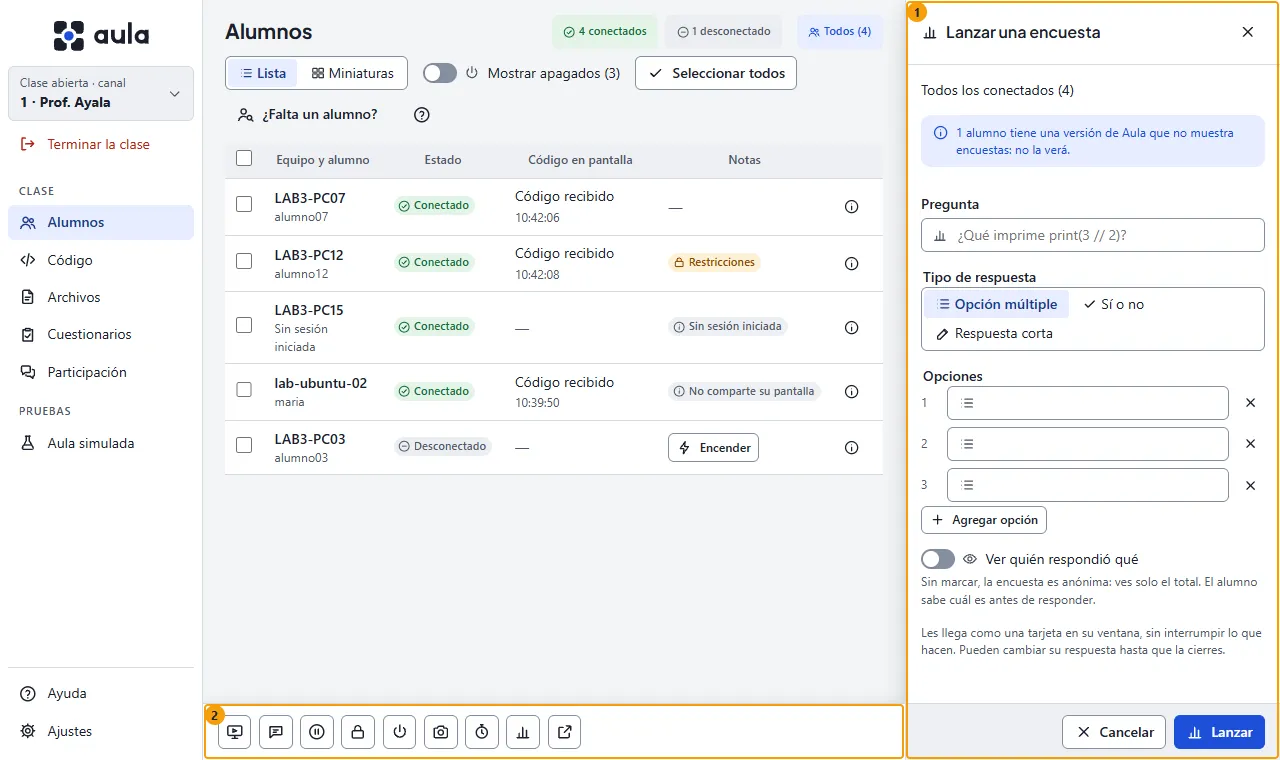
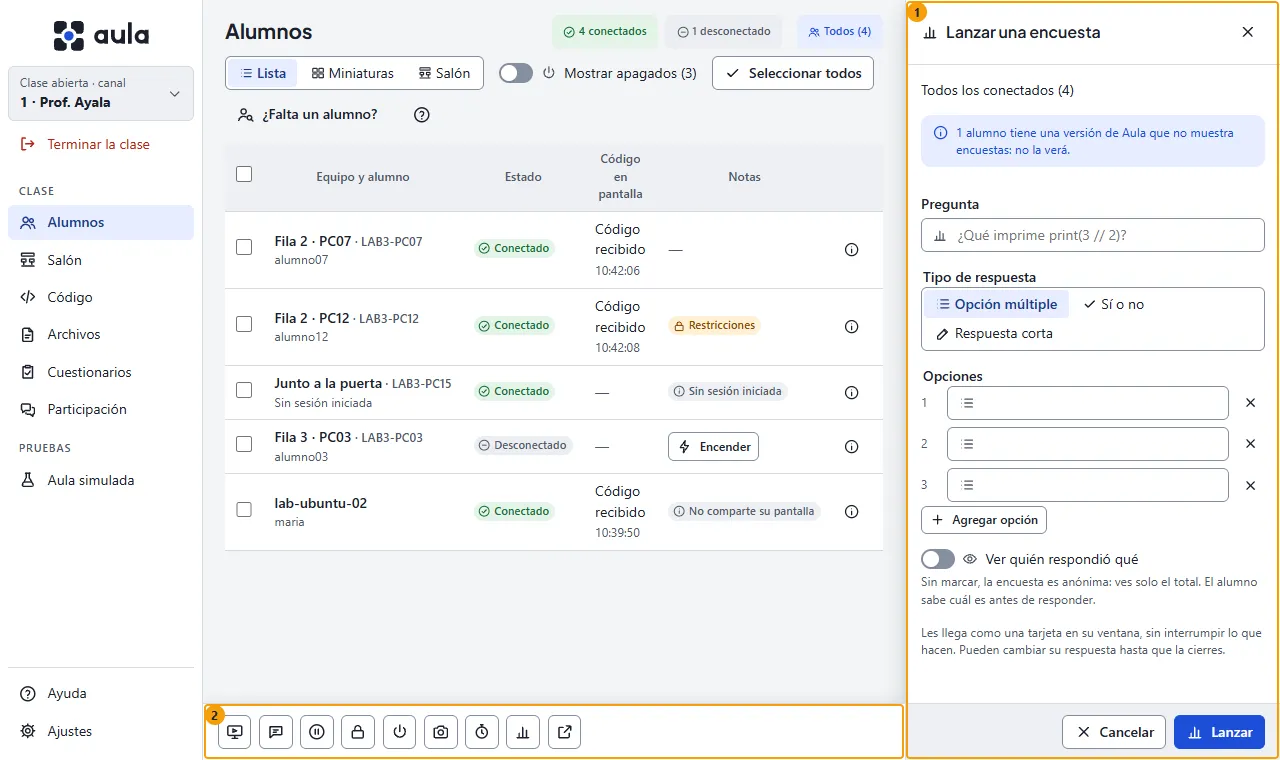
documentacion(ux): zonas del Salón, mapa e historial
Las zonas nuevas (Vista Salón, Alumnos en el salón, Ajustes › Salón, diálogo de la etiqueta),
el mapa regenerado y la página de historial con las ubicaciones y decisiones de 10.15.

diff --git a/docs/ux/MAPA.md b/docs/ux/MAPA.md
@@ -19,7 +19,7 @@ archivo y sus imágenes los genera `node scripts/ux/mapa.mjs` (no se editan a ma
 | 3 | **Terminar la clase** | Bajo el Selector de clase: detiene lo activo y deja limpia la ventana de cada alumno (prompt 10.14). |
 | 4 | **Cabecera de la vista** | Título de la vista, su resumen y el «?» de ayuda contextual. |
 | 5 | **Selección** | A quién van las acciones de la barra: «Todos (n)» o «n seleccionados», con su explicación en el tooltip. |
-| 6 | **Selector Lista | Miniaturas** | Cambia entre la tabla y las miniaturas de pantalla. |
+| 6 | **Selector Lista | Miniaturas | Salón** | Cambia entre la tabla, las miniaturas de pantalla y los alumnos en su lugar del salón. |
 | 7 | **Mostrar apagados** | Muestra en la lista los equipos que la consola conoce y no están conectados, con Encender y Olvidar; solo en Lista y se recuerda (prompt 10.19). |
 | 8 | **Lista de alumnos** | Tabla con un alumno por fila. |
 | 9 | **Fila del alumno** | Un alumno: casilla, equipo, estado, insignias y el botón de su ficha; en un equipo sin conexión, Encender. |
@@ -31,7 +31,7 @@ archivo y sus imágenes los genera `node scripts/ux/mapa.mjs` (no se editan a ma
 
 | # | Zona | Qué es |
 |---|---|---|
-| 1 | **Tamaño de las miniaturas** | Pequeño, Mediano, Grande, Extra grande o Ajustar a la pantalla; solo en Miniaturas y se recuerda. |
+| 1 | **Tamaño de las miniaturas** | Pequeño, Mediano, Grande, Extra grande o Ajustar a la pantalla; en Miniaturas y en Salón, y se recuerda. |
 | 2 | **Miniaturas** | Cuadrícula con la pantalla de cada alumno. |
 | 3 | **Tarjeta del alumno** | La miniatura de un alumno como un monitor, con su nombre; un clic en la pantalla abre la Pantalla grande. |
 | 4 | **Barra de acciones** | Abajo: lo que se aplica a la selección (aviso, transmitir, pausar, restricciones, captura, temporizador, encuesta, energía…). |
@@ -52,7 +52,7 @@ archivo y sus imágenes los genera `node scripts/ux/mapa.mjs` (no se editan a ma
 | # | Zona | Qué es |
 |---|---|---|
 | 1 | **Pantalla grande** | La pantalla de un alumno en grande; también la vista del control remoto y la de la proyección de un alumno. |
-| 2 | **Acciones sobre el alumno** | Tomar control, Mensaje privado, Tomar captura, Proyectar a la clase, Pausar pantalla y Abrir página o app (ACCIONES_ALUMNO en main.js). |
+| 2 | **Acciones sobre el alumno** | Tomar control, Mensaje privado, Tomar captura, Proyectar a la clase, Pausar pantalla, Abrir página o app y Etiqueta del equipo (ACCIONES_ALUMNO en main.js). |
 
 ### Consola · Franja global y un panel de la barra
 
@@ -98,7 +98,7 @@ archivo y sus imágenes los genera `node scripts/ux/mapa.mjs` (no se editan a ma
 
 | # | Zona | Qué es |
 |---|---|---|
-| 1 | **Ajustes** | Diálogo con Clase, Apariencia, Apps permitidas y Acerca de. |
+| 1 | **Ajustes** | Diálogo con Clase, Apariencia, Apps permitidas, Salón y Acerca de. |
 | 2 | **Apps permitidas** | Las apps que se pueden abrir en los equipos: nombre y ruta del .exe, con ejemplos. |
 
 ### Consola · Código
@@ -164,6 +164,28 @@ archivo y sus imágenes los genera `node scripts/ux/mapa.mjs` (no se editan a ma
 |---|---|---|
 | 1 | **Franja global** | Lo que sigue activo durante la clase (transmitir, proyectar a un alumno, control, pantallas en pausa, energía, temporizador, encuesta o cuestionario abierto, aula simulada), con su botón para detenerlo. |
 | 2 | **Sección Encuestas** | La encuesta o el cuestionario abierto en vivo (barras, o aciertos por pregunta y puntaje por alumno) con Cerrar, y los anteriores con Compartir resultados y Exportar calificaciones. |
+
+### Consola · Alumnos (salón)
+
+![Consola · Alumnos (salón)](mapa/consola-alumnos-salon.webp)
+
+| # | Zona | Qué es |
+|---|---|---|
+| 1 | **Selector Lista | Miniaturas | Salón** | Cambia entre la tabla, las miniaturas de pantalla y los alumnos en su lugar del salón. |
+| 2 | **Alumnos en el salón** | Las tarjetas de los alumnos en su lugar del salón; el lugar de un equipo sin conexión se ve vacío, con Encender. Los números de fila y columna seleccionan a los de esa fila o columna (prompt 10.15). |
+| 3 | **Barra de acciones** | Abajo: lo que se aplica a la selección (aviso, transmitir, pausar, restricciones, captura, temporizador, encuesta, energía…). |
+
+### Consola · Salón
+
+![Consola · Salón](mapa/consola-salon.webp)
+
+| # | Zona | Qué es |
+|---|---|---|
+| 1 | **Menú** | Columna izquierda: la clase abierta, las vistas y Ayuda y Ajustes. |
+| 2 | **Filas, columnas y lugar** | El tamaño del salón (hasta 12 × 12) y qué pone un clic: mover equipos, Profesor, Pasillo o Vacío. |
+| 3 | **Plano del salón** | Un botón por lugar, con el frente del salón arriba: se arrastra cada equipo a su lugar, o con el teclado (flechas, Enter y Esc). |
+| 4 | **Sin acomodar** | Los equipos sin lugar: los nuevos y los que la consola recuerda; soltar uno aquí lo saca del plano. |
+| 5 | **Equipo elegido** | El equipo elegido: su nombre, lugar y estado, su etiqueta con Guardar etiqueta, Quitar de su lugar y Quitar del salón. |
 
 ### Consola · Cuestionarios
 
@@ -291,20 +313,22 @@ También las que no salen en una imagen (diálogos y paneles). El `id` es el que
 | `franja` | Franja global | Lo que sigue activo durante la clase (transmitir, proyectar a un alumno, control, pantallas en pausa, energía, temporizador, encuesta o cuestionario abierto, aula simulada), con su botón para detenerlo. |
 | `cabecera` | Cabecera de la vista | Título de la vista, su resumen y el «?» de ayuda contextual. |
 | `avisos` | Avisos (toasts) | Mensajes breves abajo a la derecha tras una acción. |
-| `alumnos` | Vista Alumnos | Los alumnos del canal, en lista o miniaturas. |
-| `alumnos-modo` | Vista Alumnos › Selector Lista | Miniaturas | Cambia entre la tabla y las miniaturas de pantalla. |
+| `alumnos` | Vista Alumnos | Los alumnos del canal, en lista, miniaturas o como en el salón. |
+| `alumnos-modo` | Vista Alumnos › Selector Lista | Miniaturas | Salón | Cambia entre la tabla, las miniaturas de pantalla y los alumnos en su lugar del salón. |
 | `alumnos-lista` | Vista Alumnos › Lista de alumnos | Tabla con un alumno por fila. |
 | `fila-alumno` | Vista Alumnos › Lista de alumnos › Fila del alumno | Un alumno: casilla, equipo, estado, insignias y el botón de su ficha; en un equipo sin conexión, Encender. |
 | `alumnos-seleccion` | Vista Alumnos › Selección | A quién van las acciones de la barra: «Todos (n)» o «n seleccionados», con su explicación en el tooltip. |
 | `alumnos-apagados` | Vista Alumnos › Mostrar apagados | Muestra en la lista los equipos que la consola conoce y no están conectados, con Encender y Olvidar; solo en Lista y se recuerda (prompt 10.19). |
-| `alumnos-tamano` | Vista Alumnos › Tamaño de las miniaturas | Pequeño, Mediano, Grande, Extra grande o Ajustar a la pantalla; solo en Miniaturas y se recuerda. |
+| `alumnos-tamano` | Vista Alumnos › Tamaño de las miniaturas | Pequeño, Mediano, Grande, Extra grande o Ajustar a la pantalla; en Miniaturas y en Salón, y se recuerda. |
 | `alumnos-miniaturas` | Vista Alumnos › Miniaturas | Cuadrícula con la pantalla de cada alumno. |
 | `tarjeta-alumno` | Vista Alumnos › Miniaturas › Tarjeta del alumno | La miniatura de un alumno como un monitor, con su nombre; un clic en la pantalla abre la Pantalla grande. |
+| `alumnos-salon` | Vista Alumnos › Alumnos en el salón | Las tarjetas de los alumnos en su lugar del salón; el lugar de un equipo sin conexión se ve vacío, con Encender. Los números de fila y columna seleccionan a los de esa fila o columna (prompt 10.15). |
 | `barra-acciones` | Vista Alumnos › Barra de acciones | Abajo: lo que se aplica a la selección (aviso, transmitir, pausar, restricciones, captura, temporizador, encuesta, energía…). |
 | `ficha` | Ficha del alumno | Panel derecho con los datos de un alumno y qué puede hacer su equipo; su fila queda marcada. Las acciones están en la Pantalla grande. |
 | `ficha-puede` | Ficha del alumno › Qué puede hacer su equipo | Lista de capacidades del equipo del alumno. |
 | `pantalla-grande` | Pantalla grande | La pantalla de un alumno en grande; también la vista del control remoto y la de la proyección de un alumno. |
-| `pg-acciones` | Pantalla grande › Acciones sobre el alumno | Tomar control, Mensaje privado, Tomar captura, Proyectar a la clase, Pausar pantalla y Abrir página o app (ACCIONES_ALUMNO en main.js). |
+| `pg-acciones` | Pantalla grande › Acciones sobre el alumno | Tomar control, Mensaje privado, Tomar captura, Proyectar a la clase, Pausar pantalla, Abrir página o app y Etiqueta del equipo (ACCIONES_ALUMNO en main.js). |
+| `dlg-etiqueta` | Diálogo Etiqueta del equipo | Cambiar o quitar la etiqueta de un equipo; se abre desde la Pantalla grande (prompt 10.15). |
 | `dlg-privado` | Diálogo Mensaje privado | Escribir un mensaje solo para un alumno, con su tipo; se abre desde la Pantalla grande. |
 | `dlg-abrir` | Diálogo Abrir en un alumno | Abrir una página o una app permitida en el equipo de un alumno; se abre desde la Pantalla grande. |
 | `dlg-plantilla` | Diálogo Nueva plantilla | Crear una plantilla con su nombre y sus archivos; se abre desde Plantillas (nota de interfaz 17). |
@@ -336,6 +360,11 @@ También las que no salen en una imagen (diálogos y paneles). El `id` es el que
 | `reco-nueva` | Vista Archivos › Recolecciones › Nueva recolección | Actividad, tipos de archivo y «Crear carpeta en los equipos». |
 | `recoleccion` | Vista Archivos › Recolecciones › Tarjeta de recolección | Una actividad: Recoger, Recoger a los que faltan, Abrir carpeta y la tabla por alumno. |
 | `reco-fila` | Vista Archivos › Recolecciones › Tarjeta de recolección › Fila de la recolección | Un alumno: estado, qué llegó, cuándo, Abrir, Guardar como… y Recoger otra vez. |
+| `salon` | Vista Salón | El plano del salón del canal: etiqueta y lugar de cada equipo, Exportar, Importar y Abrir carpeta. |
+| `salon-herramientas` | Vista Salón › Filas, columnas y lugar | El tamaño del salón (hasta 12 × 12) y qué pone un clic: mover equipos, Profesor, Pasillo o Vacío. |
+| `salon-plano` | Vista Salón › Plano del salón | Un botón por lugar, con el frente del salón arriba: se arrastra cada equipo a su lugar, o con el teclado (flechas, Enter y Esc). |
+| `salon-sin` | Vista Salón › Sin acomodar | Los equipos sin lugar: los nuevos y los que la consola recuerda; soltar uno aquí lo saca del plano. |
+| `salon-elegido` | Vista Salón › Equipo elegido | El equipo elegido: su nombre, lugar y estado, su etiqueta con Guardar etiqueta, Quitar de su lugar y Quitar del salón. |
 | `cuestionarios` | Vista Cuestionarios | Los cuestionarios guardados, su editor y Lanzar; los resultados van en Participación › Encuestas. |
 | `cuest-guardados` | Vista Cuestionarios › Cuestionarios guardados | Los de Documentos\Aula\cuestionarios con «Lanzar a» (todos o la selección), Lanzar, Editar, Eliminar, Nuevo cuestionario y Abrir carpeta. |
 | `cuest-editor` | Vista Cuestionarios › Editor de cuestionario | Título, tiempo, al azar y cada pregunta con su tipo, puntos y opciones con el interruptor Correcta; Guardar y Guardar y lanzar. |
@@ -348,8 +377,9 @@ También las que no salen en una imagen (diálogos y paneles). El `id` es el que
 | `ayuda` | Vista Ayuda (manual) | El manual, con búsqueda e índice. |
 | `panel-ayuda` | Panel de ayuda contextual | La página del manual de la vista actual, al costado. |
 | `falta` | Vista ¿Falta un alumno? | Comprobar la conexión y el asistente paso a paso. |
-| `ajustes` | Ajustes | Diálogo con Clase, Apariencia, Apps permitidas y Acerca de. |
+| `ajustes` | Ajustes | Diálogo con Clase, Apariencia, Apps permitidas, Salón y Acerca de. |
 | `ajustes-apps` | Ajustes › Apps permitidas | Las apps que se pueden abrir en los equipos: nombre y ruta del .exe, con ejemplos. |
+| `ajustes-salon` | Ajustes › Salón | El resumen del salón del canal, dónde se guarda, Abrir el salón, Exportar e Importar (prompt 10.15). |
 | `confirmar` | Diálogo de confirmación | «¿Seguro?» antes de una acción con consecuencias. |
 | `arranque` | Pantalla de arranque | Abrir la clase: canal y nombre. |
 

diff --git a/docs/ux/historial/salon.md b/docs/ux/historial/salon.md
@@ -1,0 +1,74 @@
+# Etiquetas de los equipos y salón (10.15): ubicación y decisiones
+
+Estado: **implementado, sin commit** (13/11/2026). Prompt
+`docs/prompts/10.15-nombres-y-mapa-del-aula.md`, trabajado con `/funcionalidad-nueva 10.15`. No se
+versionan capturas: las del arnés son `scripts/ux/salida/203-213` (consola) y
+`scripts/ux/salida-alumno/90-91` (alumno), y el CI las sube. El mapa suma «Consola · Salón» y
+«Consola · Alumnos (salón)» (`docs/ux/mapa/`), y el manual la página `salon.md` con su captura.
+
+## Análisis
+
+Con 30 a 40 equipos, «LAB3-PC07» no dice dónde está la máquina. El prompt pedía dos cosas: una
+etiqueta por equipo, que se viera en toda la consola, y un plano del salón que ordenara la lista y
+las miniaturas. Eso traía tres preguntas de interfaz:
+
+- **El plano es material propio**: se arma una vez, se guarda y se copia a otras consolas. Según la
+  regla de «Ubicación y vocabulario», eso pide un módulo propio del menú.
+- **Ver la clase como está sentada** es otra forma de ver a los alumnos, no una pantalla nueva:
+  cabe junto a Lista y Miniaturas.
+- **Cambiar la etiqueta de un equipo** es una acción sobre un alumno. La Ficha solo informa
+  (nota de interfaz 5), así que va en la Pantalla grande con su propio diálogo.
+
+El prompt decía que la función no tocaba el protocolo, pero pedía que el alumno viera su etiqueta.
+La etiqueta vive en la consola, así que hacía falta un mensaje: `computer.label` (§5.26),
+compatible.
+
+## Opciones de ubicación presentadas
+
+1. **Módulo «Salón» + Ajustes › Salón** (recomendada, **elegida**): el editor en su módulo, después
+   de Alumnos; en Ajustes, el resumen con Exportar e Importar, que son tareas del administrador.
+2. **Modo «Acomodar» dentro de Alumnos › Salón**: sin módulo nuevo. Mezcla editar el plano con dar
+   la clase y rompe la regla del material propio.
+3. **Solo Ajustes › Salón**: todo lo configurado junto, pero un plano de 12 × 12 no cabe en el modal
+   a 900×600.
+
+Para la etiqueta: **Pantalla grande con diálogo** (elegida) o solo el editor del plano. Para el
+alumno: **hostname y etiqueta** con el mensaje nuevo (elegida) o solo el hostname sin tocar el
+protocolo. Para un equipo reinstalado con otro nombre y la misma MAC: **conservar su lugar solo,
+con aviso** (elegida), preguntar al profesor o tratarlo como nuevo.
+
+## Decisiones
+
+- **Una sola función del nombre visible.** `nombreEquipo(x)` en `main.js` devuelve la etiqueta o el
+  hostname, y `hostSecundario(x)` el hostname cuando hay etiqueta. Los ~70 lugares de la consola
+  que mostraban `s.hostname` pasan por ella, y las listas por `listaEquipos`. La identidad
+  (`clave`, `data-equipo`, lo que va a Go) sigue siendo el hostname.
+- **La clave del equipo es el hostname sin mayúsculas, con las MAC de respaldo.** El agente no tiene
+  identidad propia, y un ID nuevo tampoco sobreviviría a una reinstalación (el `MachineGuid` se
+  repite en imágenes clonadas). Solo se renombra si la MAC es de un único equipo del salón y ese
+  equipo no está conectado.
+- **La vista Salón reusa la tarjeta de Miniaturas**, con su imagen, su selección y su clic a la
+  Pantalla grande, colocada con `grid-row`/`grid-column`. Las cabeceras de fila y columna son
+  botones que seleccionan a los conectados de esa fila o columna (para la Barra de acciones y
+  10.16). Un asiento es más angosto que una miniatura (`ANCHO_ASIENTO`), así un salón de 8 columnas
+  cabe en «Pequeño» a 1280 px; a 900×600 se desplaza dentro de su recuadro con la cabecera de las
+  filas fija. En un asiento, el nombre va en su propia línea para que la etiqueta no se corte.
+- **El editor es una rejilla de botones con foco itinerante** (no `role=grid`): Tab entra una vez,
+  las flechas recorren y Enter toma y deja. El nombre accesible de cada botón es su texto visible,
+  y la posición y el estado van en un `solo-lector` (axe `label-content-name-mismatch`).
+- **El frente del salón** (pizarrón) se dibuja arriba en el editor y en la vista, para que «fila 1»
+  tenga sentido.
+- **Los simulados ocupan los primeros lugares libres**, solo en memoria; un equipo real les gana el
+  lugar.
+- **Lo que queda fuera:** la etiqueta en el CSV de calificaciones (tocaría `internal/poll`; el CSV
+  conserva el hostname, que es estable), la selección por zona libre (10.16) y el nombre del alumno
+  (10.13).
+
+## Resultados
+
+- `go test ./internal/roomplan ./apps/teacher ./apps/student ./internal/protocol`: versión,
+  validación, lugares repetidos, equipo desconocido, importar y exportar, renombrado por MAC,
+  simulados nunca en el archivo, archivo dañado o de una versión nueva, y la etiqueta solo a quien
+  declara `computer.label`.
+- Arnés: escenas 203–213 sin errores de JS ni violaciones serias de axe (en claro, oscuro y a
+  900×600, con 30 simulados acomodados); `pruebas-alumno.mjs` 65/65 con «Este equipo».
